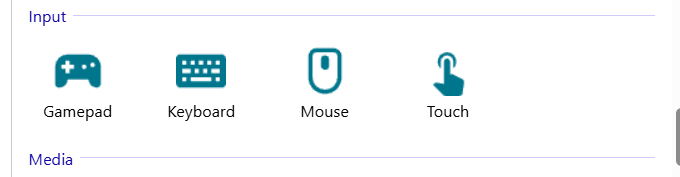
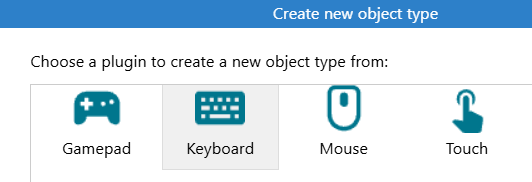
Construct 3 platformers 5A: better Keyboard picture, window name
Claude-Session: https://claude.ai/code/session_0163dwnUKPp8ttWeAiemqiBi

diff --git a/construct3/platformer-outside-assets/index.html b/construct3/platformer-outside-assets/index.html
@@ -316,7 +316,7 @@
 
 <h3>5A · Keyboard object</h3>
 <ol>
-<li>Go to the <b>Layout 1</b> tab (middle of the screen) and double-click an empty part of the layout. In the window that opens, scroll down to the <b>Input</b> group, click <b>Keyboard</b>, and click <b>Insert</b>.<img src="../../assets/construct3/insert-object-input-keyboard.png" alt="Construct 3 Create new object window, Input group: Gamepad, Keyboard, Mouse and Touch icons" width="680" height="177" style="display:block;max-width:100%;height:auto;margin:.5em 0;border:1px solid #ccc;border-radius:6px"></li>
+<li>Go to the <b>Layout 1</b> tab (middle of the screen) and double-click an empty part of the layout. The <b>Create new object type</b> window opens. Click <b>Keyboard</b> (it turns grey when picked), then click <b>Insert</b>.<img src="../../assets/construct3/insert-object-input-keyboard.png?v=2" alt="Construct 3 Create new object type window with Keyboard picked (grey) among Gamepad, Mouse and Touch" width="532" height="182" style="display:block;max-width:100%;height:auto;margin:.5em 0;border:1px solid #ccc;border-radius:6px"></li>
 </ol>
 <div class="note what"><b>What changed:</b> nothing appears on the layout, because Keyboard is not a picture. Check that <b>Keyboard</b> is now listed under <b>Object types</b> in the Project Bar.</div>
 

diff --git a/construct3/platformer/index.html b/construct3/platformer/index.html
@@ -297,7 +297,7 @@
 
 <h3>5A · Keyboard object</h3>
 <ol>
-<li>Go to the <b>Layout 1</b> tab (middle of the screen) and double-click an empty part of the layout. In the window that opens, scroll down to the <b>Input</b> group, click <b>Keyboard</b>, and click <b>Insert</b>.<img src="../../assets/construct3/insert-object-input-keyboard.png" alt="Construct 3 Create new object window, Input group: Gamepad, Keyboard, Mouse and Touch icons" width="680" height="177" style="display:block;max-width:100%;height:auto;margin:.5em 0;border:1px solid #ccc;border-radius:6px"></li>
+<li>Go to the <b>Layout 1</b> tab (middle of the screen) and double-click an empty part of the layout. The <b>Create new object type</b> window opens. Click <b>Keyboard</b> (it turns grey when picked), then click <b>Insert</b>.<img src="../../assets/construct3/insert-object-input-keyboard.png?v=2" alt="Construct 3 Create new object type window with Keyboard picked (grey) among Gamepad, Mouse and Touch" width="532" height="182" style="display:block;max-width:100%;height:auto;margin:.5em 0;border:1px solid #ccc;border-radius:6px"></li>
 </ol>
 <div class="note what"><b>What changed:</b> nothing appears on the layout, because Keyboard is not a picture. Check that <b>Keyboard</b> is now listed under <b>Object types</b> in the Project Bar.</div>
 
